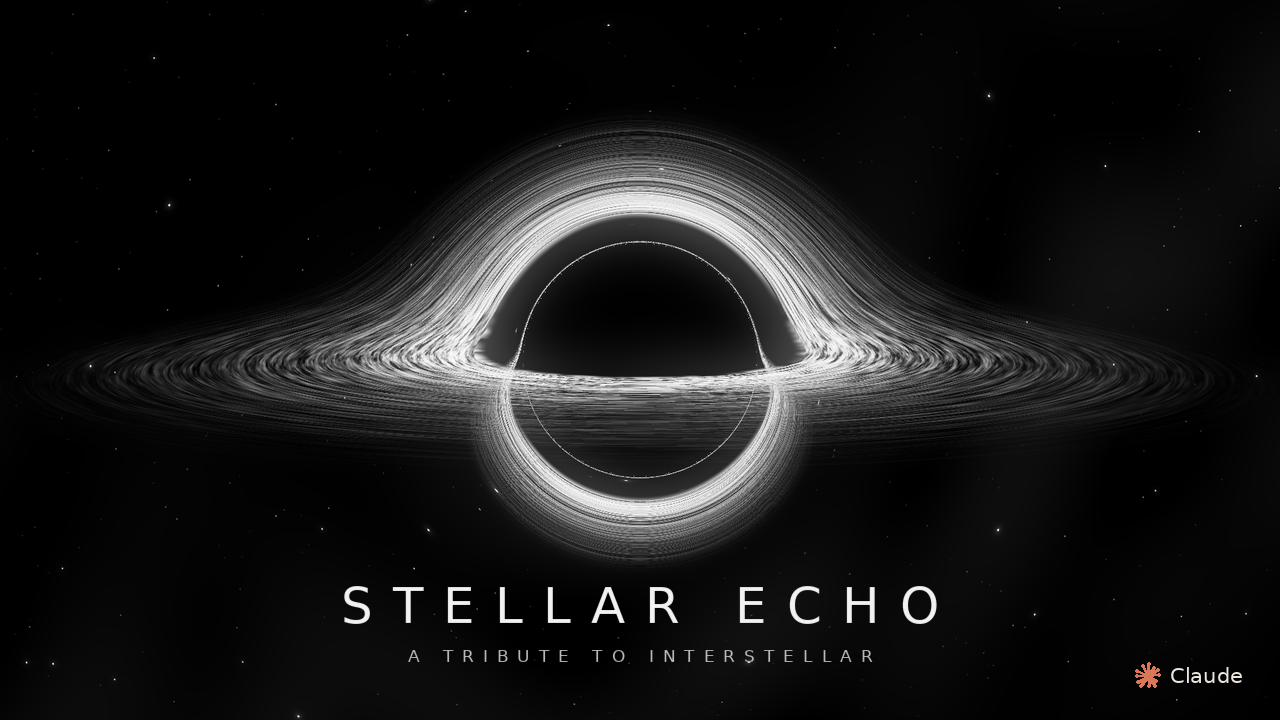
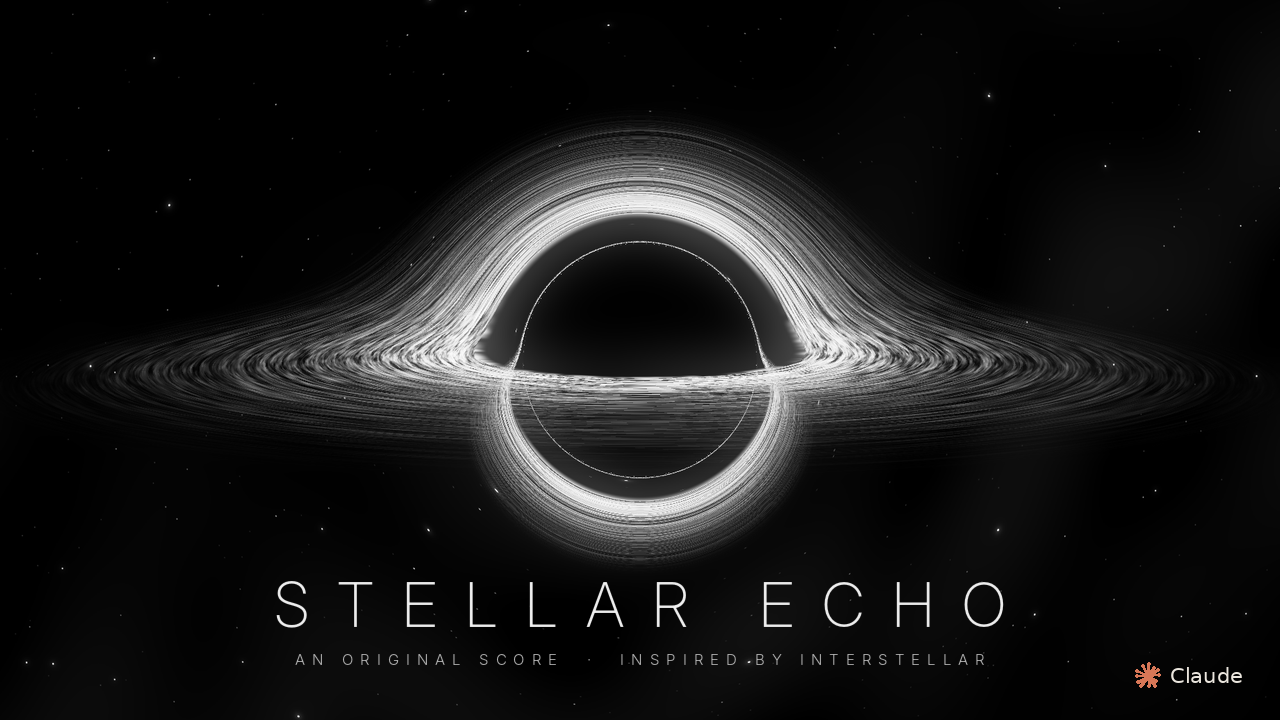
English title: poster-style thin wide type and new subtitle
Inter Display ExtraLight with wide tracking for STELLAR ECHO, subtitle
AN ORIGINAL SCORE · INSPIRED BY INTERSTELLAR.

Claude-Session: https://claude.ai/code/session_01Vdfstb7xo7uTsT7ZX96FV9

Changed region(s): [[0.2188, 0.7944, 0.7812, 0.9167]]

diff --git a/video/render_demo.py b/video/render_demo.py
@@ -181,9 +181,11 @@ def overlay_layers():
     main_c = (242, 242, 242, 255) if BW else (245, 240, 232, 255)
     sub_c = (196, 196, 196, 255) if BW else (200, 196, 190, 255)
     if EN:
-        big = ImageFont.truetype("/usr/share/fonts/truetype/dejavu/DejaVuSans.ttf", 50)
-        spaced("STELLAR ECHO", big, 576, 20, main_c)
-        spaced("A TRIBUTE TO INTERSTELLAR", en, 646, 9, sub_c)
+        # 海报风：细而宽的无衬线大字、大字距；副标题小号浅灰
+        big = ImageFont.truetype("/usr/share/fonts/opentype/inter/InterDisplay-ExtraLight.otf", 62)
+        small = ImageFont.truetype("/usr/share/fonts/opentype/inter/Inter-Light.otf", 15)
+        spaced("STELLAR ECHO", big, 566, 28, main_c)
+        spaced("AN ORIGINAL SCORE  ·  INSPIRED BY INTERSTELLAR", small, 650, 7, sub_c)
     else:
         spaced("星际回响", zh, 572, 26, main_c)
         spaced("STELLAR  ECHO", en, 646, 9, sub_c)
